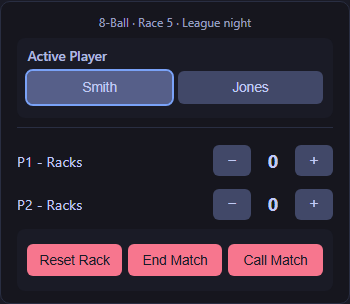
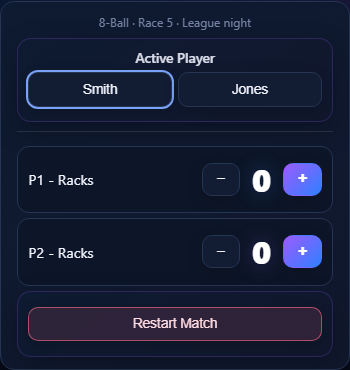
Update README and screenshot capture for Modern Cloud theme
- Updated README to reflect changes in screenshot descriptions, emphasizing the Modern Cloud theme.
- Modified screenshot capture script to enable the Modern Cloud theme during control panel captures.
- Adjusted tab navigation in the screenshot capture process to align with the new settings structure.

diff --git a/docs/readme/README.md b/docs/readme/README.md
@@ -23,8 +23,8 @@ Output files:
 
 | File | Content |
 |------|---------|
-| `01-control-panel-setup.png` | Setup tab |
-| `02-control-panel-controls.png` | Controls tab (ball scoring) |
-| `03-control-panel-cloud.png` | Replay/Share + CueSport Scoreboard Cloud |
+| `01-control-panel-setup.png` | Setup tab (Modern Cloud theme) |
+| `02-control-panel-controls.png` | Controls tab with ball scoring (Modern Cloud theme) |
+| `03-control-panel-cloud.png` | Settings tab — Cloud + Replay/Share (Modern Cloud theme) |
 | `04-cloud-dashboard.png` | Cloud dashboard (Tables) |
 | `05-cloud-mobile-control.png` | Mobile remote control |

diff --git a/README.md b/README.md
@@ -103,7 +103,7 @@ You do not need a public server for the scoreboard itself. Local files or a tiny
 
 **Replay/Share** — OBS WebSocket, **CueSport Scoreboard Cloud** relay, and stream promotion.
 
-![Control panel — Replay/Share tab with CueSport Scoreboard Cloud](docs/readme/images/03-control-panel-cloud.png)
+![Control panel — Settings tab with CueSport Scoreboard Cloud](docs/readme/images/03-control-panel-cloud.png)
 
 ### CueSport Scoreboard Cloud (optional)
 
